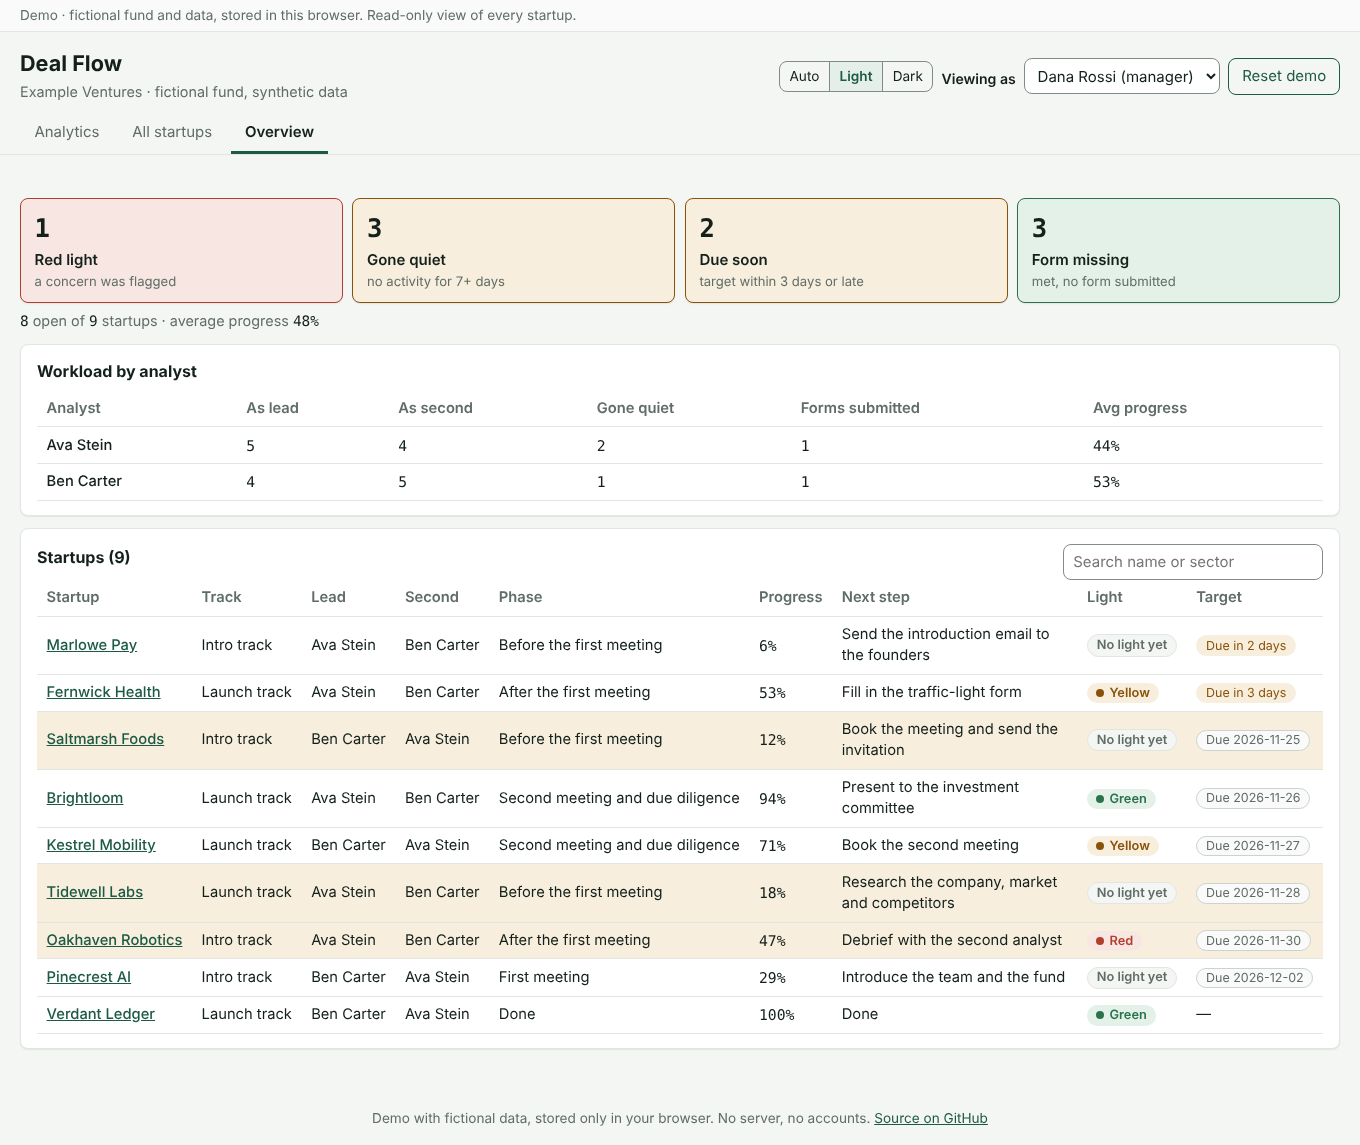
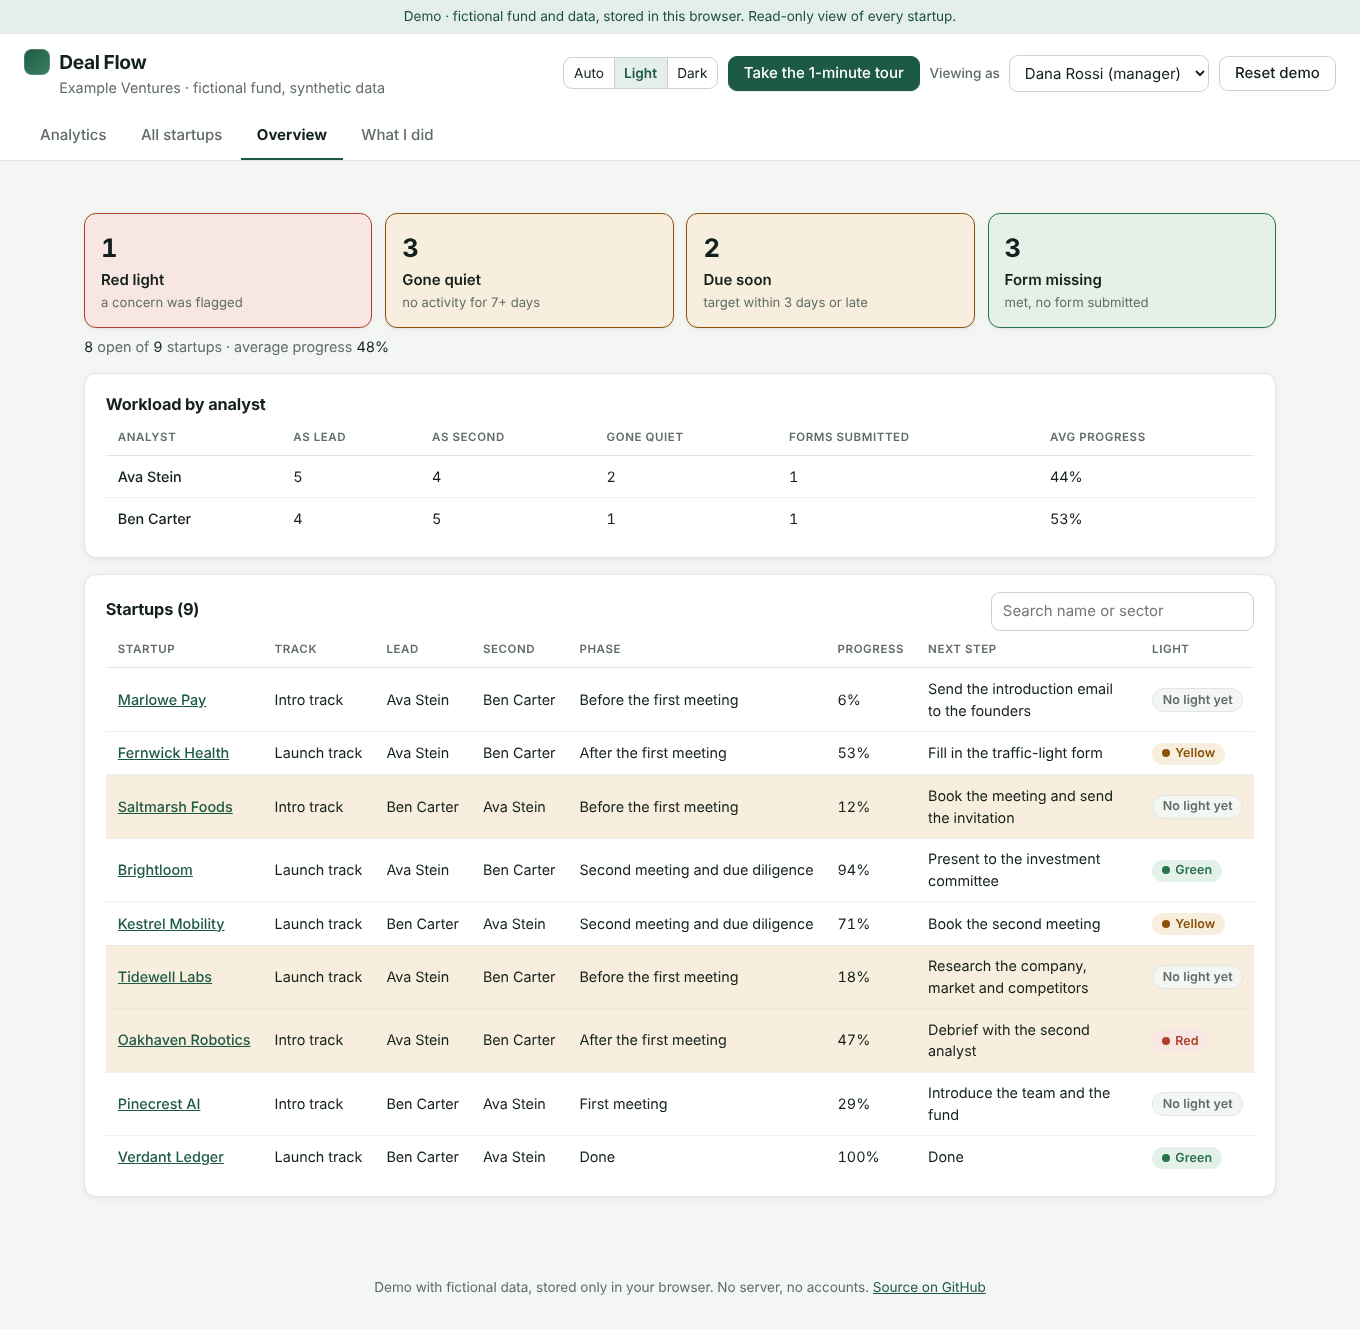
style: calmer visual polish (type, spacing, cards, tabs, tour) and fix stray null node
Claude-Session: https://claude.ai/code/session_01N9arR7BoFCMTo9ZA3dDA75

diff --git a/css/style.css b/css/style.css
@@ -7,10 +7,10 @@
   --yellow: #8a5208; --yellow-bg: #f8eedd;
   --red: #b13f2c; --red-bg: #f8e6e2;
   --info-bg: #e6ecf7;
-  --radius: 8px;
-  --shadow: 0 1px 2px rgba(19,32,27,.05), 0 1px 1px rgba(19,32,27,.03);
+  --radius: 12px; --radius-sm: 9px;
+  --shadow: 0 1px 2px rgba(19,32,27,.04), 0 2px 8px rgba(19,32,27,.04);
   --shadow-pop: 0 12px 32px rgba(19,32,27,.12), 0 2px 6px rgba(19,32,27,.05);
-  --num: "IBM Plex Mono", ui-monospace, Menlo, monospace;
+  --num: inherit; /* numbers use the text face with tabular figures, not a monospace */
 }
 @media (prefers-color-scheme: dark) {
   :root:not([data-theme="light"]) {
@@ -33,7 +33,7 @@
   --shadow: 0 1px 2px rgba(0,0,0,.4); --shadow-pop: 0 16px 40px rgba(0,0,0,.55); color-scheme: dark;
 }
 * { box-sizing: border-box; }
-body { margin: 0; background: var(--bg); color: var(--ink); font: 15px/1.45 "Heebo", "Segoe UI", system-ui, -apple-system, Arial, sans-serif; }
+body { margin: 0; background: var(--bg); color: var(--ink); font: 15px/1.5 Inter, "Segoe UI", system-ui, -apple-system, "Helvetica Neue", Arial, sans-serif; -webkit-font-smoothing: antialiased; }
 h1 { font-size: 1.35rem; margin: 0; }
 h2 { font-size: 1rem; margin: 0 0 .5rem; }
 h3 { font-size: .95rem; margin: 1rem 0 .25rem; }
@@ -240,3 +240,111 @@ section.card:hover { border-color: var(--line); }
 .about .two .panel { margin: .75rem 0; }
 .about ul, .about ol { margin: .3rem 0; padding-left: 1.2rem; }
 .about li { margin: .25rem 0; }
+
+/* ---- Visual polish layer ------------------------------------------------------------------
+   Same structure, calmer finish: softer surfaces, one rhythm of spacing, clearer hierarchy. */
+:root { --ring: color-mix(in srgb, var(--brand) 28%, transparent); --line-soft: color-mix(in srgb, var(--line) 60%, transparent); }
+body { letter-spacing: -0.003em; }
+h1 { font-size: 1.2rem; font-weight: 700; letter-spacing: -0.02em; display: flex; align-items: center; gap: .6rem; }
+h1::before { content: ""; width: 1.6rem; height: 1.6rem; border-radius: 8px; background: linear-gradient(135deg, var(--brand), color-mix(in srgb, var(--brand) 55%, #5fb38b)); box-shadow: inset 0 0 0 1px rgb(255 255 255 / .18); flex: none; }
+h2 { font-size: 1.02rem; font-weight: 650; letter-spacing: -0.01em; margin-bottom: .35rem; }
+.sub, .note, .empty { line-height: 1.45; }
+.notice { text-align: center; padding: .4rem 1rem; background: var(--brand-soft); color: color-mix(in srgb, var(--brand) 80%, var(--ink)); border-bottom: 1px solid var(--line-soft); }
+.top { background: var(--surface); padding: .85rem 1.5rem; }
+.top .sub { margin: .1rem 0 0 2.2rem; }
+.tabs { background: var(--surface); padding: 0 1.5rem; gap: .15rem; position: sticky; top: 0; z-index: 4; }
+.tab { padding: .7rem 1rem; font-weight: 500; border-bottom-width: 2px; transition: color .15s, border-color .15s; }
+.tab:hover { color: var(--ink); }
+.tab.on { font-weight: 650; }
+main { padding: 1rem 1.5rem 2.5rem; max-width: 1240px; margin: 0 auto; }
+.status { margin: .5rem 1.5rem 0; }
+select, input, textarea { border-color: var(--line-strong); border-radius: var(--radius-sm); padding: .45rem .65rem; transition: border-color .15s, box-shadow .15s; }
+select:hover, input:hover, textarea:hover { border-color: var(--control); }
+:focus-visible { outline: 2px solid var(--brand); outline-offset: 2px; }
+select:focus-visible, input:focus-visible, textarea:focus-visible { outline: none; border-color: var(--brand); box-shadow: 0 0 0 3px var(--ring); }
+.btn { border-radius: var(--radius-sm); padding: .48rem .95rem; font-weight: 550; line-height: 1.2; transition: background .15s, border-color .15s, box-shadow .15s, transform .05s; box-shadow: 0 1px 1px rgba(0,0,0,.08); }
+.btn:hover { background: color-mix(in srgb, var(--brand) 88%, #000); }
+.btn:active { transform: translateY(1px); }
+.btn.ghost { border-color: var(--line-strong); color: var(--ink); box-shadow: none; }
+.btn.ghost:hover { background: var(--brand-soft); border-color: color-mix(in srgb, var(--brand) 40%, var(--line-strong)); color: var(--brand); }
+.btn.sm { padding: .3rem .65rem; font-size: .85rem; }
+.seg { border-color: var(--line-strong); border-radius: var(--radius-sm); }
+.seg button + button { border-left-color: var(--line-strong); }
+.who { gap: .6rem; }
+.who > label { margin: 0; font-weight: 500; color: var(--muted); font-size: .85rem; }
+
+.panel { padding: 1.1rem 1.3rem; margin: 1rem 0; border-radius: var(--radius); border-color: var(--line); }
+.panel > h2:first-child { margin-bottom: .15rem; }
+.panel .note { margin: 0 0 .6rem; }
+.lead { color: var(--muted); margin: .25rem 0; }
+
+.kpis { gap: .8rem; margin: .75rem 0 1rem; }
+.kpi { border-radius: var(--radius); padding: .9rem 1rem; gap: .1rem; position: relative; overflow: hidden; }
+.kpi::before { content: ""; position: absolute; inset: 0 auto 0 0; width: 3px; background: var(--brand); opacity: .75; }
+.kpi-l { order: -1; font-size: .74rem; font-weight: 600; color: var(--muted); text-transform: uppercase; letter-spacing: .05em; }
+.kpi-v { font-size: 1.85rem; font-weight: 650; letter-spacing: -0.02em; line-height: 1.15; font-variant-numeric: tabular-nums; }
+.kpi-h { font-size: .8rem; line-height: 1.35; }
+.num, td.num, .tile .v { font-family: inherit; font-variant-numeric: tabular-nums; }
+
+.tiles { gap: .8rem; }
+.tile { border-radius: var(--radius); padding: .9rem 1rem; transition: box-shadow .15s, transform .15s, border-color .15s; }
+.tile:hover { box-shadow: 0 4px 14px rgba(19,32,27,.09); transform: translateY(-1px); }
+.tile .v { font-weight: 650; letter-spacing: -0.02em; }
+.tile[aria-pressed="true"] { box-shadow: 0 0 0 2px var(--brand); }
+
+table { font-size: .9rem; }
+th, td { padding: .6rem .75rem; border-bottom-color: var(--line-soft); }
+thead th { font-size: .72rem; text-transform: uppercase; letter-spacing: .05em; color: var(--muted); border-bottom: 1px solid var(--line); background: transparent; }
+tbody tr:last-child th, tbody tr:last-child td { border-bottom: 0; }
+tbody tr { transition: background .1s; }
+tbody tr:hover { background: var(--surface-2); }
+
+.board { gap: .9rem; }
+.col { background: color-mix(in srgb, var(--surface) 40%, var(--bg)); border-radius: var(--radius); padding: .75rem; box-shadow: none; }
+.col h2 { font-size: .74rem; text-transform: uppercase; letter-spacing: .05em; color: var(--muted); display: flex; align-items: center; justify-content: space-between; margin-bottom: .6rem; }
+.count { background: var(--surface); border: 1px solid var(--line); border-radius: 999px; padding: 0 .5rem; font-size: .75rem; color: var(--muted); margin: 0; }
+.card { border-radius: var(--radius-sm); padding: .7rem .8rem; gap: .25rem; transition: box-shadow .15s, border-color .15s, transform .15s; }
+.card:hover { border-color: color-mix(in srgb, var(--brand) 55%, var(--line)); box-shadow: 0 4px 14px rgba(19,32,27,.09); transform: translateY(-1px); }
+.card strong { font-weight: 650; }
+.card.focus { background: linear-gradient(135deg, var(--brand-soft), var(--surface)); border-color: color-mix(in srgb, var(--brand) 30%, var(--line)); transform: none; cursor: default; }
+.bar { height: .5rem; background: var(--line); border-radius: 999px; }
+.bar-fill { border-radius: 999px; background: linear-gradient(90deg, color-mix(in srgb, var(--brand) 80%, #5fb38b), var(--brand)); }
+.bar-row { gap: .8rem; margin: .45rem 0; }
+.bar-row > span:first-child { color: var(--ink); font-size: .9rem; }
+
+.pill { padding: .1rem .6rem; font-size: .78rem; letter-spacing: .01em; }
+.chip { transition: background .15s, border-color .15s; }
+.chip:hover { border-color: var(--brand); }
+
+.chart { margin-top: .6rem; }
+.legend { gap: 1.1rem; margin: .1rem 0 .2rem; font-size: .82rem; }
+.swatch { width: .65rem; height: .65rem; border-radius: 3px; }
+
+.errors { background: var(--red-bg); border-radius: var(--radius-sm); padding: .6rem .9rem .6rem 2rem; }
+.warns { background: var(--yellow-bg); border-radius: var(--radius-sm); padding: .6rem .9rem .6rem 2rem; }
+.panel h3 { font-size: .8rem; text-transform: uppercase; letter-spacing: .05em; color: var(--muted); margin: 1rem 0 .4rem; }
+
+.tour { border-radius: 14px; padding: 1.1rem 1.2rem 1rem; border-color: color-mix(in srgb, var(--brand) 35%, var(--line-strong)); box-shadow: 0 18px 48px rgba(19,32,27,.2), 0 2px 8px rgba(19,32,27,.08); border-top: 3px solid var(--brand); animation: rise .22s ease-out; }
+.tour .cap { font-weight: 600; letter-spacing: .06em; text-transform: uppercase; font-size: .7rem; color: var(--brand); margin: 0; }
+.tour h2 { font-size: 1.1rem; margin: .25rem 0 .4rem; }
+.tour p { color: var(--muted); font-size: .92rem; line-height: 1.5; }
+.tour .row.end { margin-top: .9rem; }
+@keyframes rise { from { opacity: 0; transform: translateY(8px); } to { opacity: 1; transform: none; } }
+
+.about .panel { padding: 1.3rem 1.5rem; }
+.about p, .about li { line-height: 1.6; }
+.about .two .panel h3 { margin-top: 0; }
+.about .two .panel:first-child { border-top: 3px solid var(--brand); }
+.about .two .panel:last-child { border-top: 3px solid var(--control); }
+.about a, .panel a, .lead a { color: var(--brand); text-underline-offset: 2px; }
+
+dialog { box-shadow: -18px 0 48px rgba(19,32,27,.18); }
+.foot { padding: 1.5rem 1rem 2rem; }
+@media (max-width: 720px) {
+  .top, .tabs { padding-left: 1rem; padding-right: 1rem; }
+  main { padding: .75rem 1rem 2rem; }
+  .panel { padding: .95rem 1rem; }
+  .tabs { overflow-x: auto; }
+  .tab { white-space: nowrap; }
+}
+@media (prefers-reduced-motion: reduce) { * { transition: none !important; animation: none !important; } }

diff --git a/js/charts.js b/js/charts.js
@@ -9,7 +9,7 @@ function el(tag, attrs = {}, ...kids) {
   for (const kid of kids.flat()) if (kid != null) node.append(kid);
   return node;
 }
-const text = (x, y, s, attrs = {}) => el('text', { x, y, fill: COLOR.text, 'font-size': 11, ...attrs }, document.createTextNode(String(s)));
+const text = (x, y, s, attrs = {}) => el('text', { x, y, fill: COLOR.text, 'font-size': 12, ...attrs }, document.createTextNode(String(s)));
 
 /** Hidden table with the same numbers, for screen readers. */
 export function dataTable(caption, headers, rows) {
@@ -42,7 +42,7 @@ export function rangeChart({ rows, label, unit = 'days', width = 960 }) {
   const svg = frame(width, height, label);
   for (let i = 0; i <= 4; i += 1) {
     const v = (max / 4) * i;
-    svg.append(el('line', { x1: x(v), x2: x(v), y1: m.t, y2: height - m.b, stroke: COLOR.grid }), text(x(v), height - 8, `${Math.round(v)}`, { 'text-anchor': 'middle' }));
+    svg.append(el('line', { x1: x(v), x2: x(v), y1: m.t, y2: height - m.b, stroke: COLOR.grid, 'stroke-dasharray': '2 4' }), text(x(v), height - 8, `${Math.round(v)}`, { 'text-anchor': 'middle' }));
   }
   svg.append(text(m.l - 14, height - 8, unit, { 'text-anchor': 'end' }));
   rows.forEach((r, i) => {
@@ -51,7 +51,7 @@ export function rangeChart({ rows, label, unit = 'days', width = 960 }) {
     if (r.n === 0) return;
     svg.append(
       el('line', { x1: x(r.min), x2: x(r.max), y1: cy, y2: cy, stroke: COLOR.none, 'stroke-width': 1.5 }),
-      el('rect', { x: x(r.p25), y: cy - 9, width: Math.max(2, x(r.p75) - x(r.p25)), height: 18, rx: 4, fill: COLOR.brand, opacity: 0.85 }),
+      el('rect', { x: x(r.p25), y: cy - 9, width: Math.max(2, x(r.p75) - x(r.p25)), height: 18, rx: 6, fill: COLOR.brand, opacity: 0.88 }),
       el('line', { x1: x(r.median), x2: x(r.median), y1: cy - 12, y2: cy + 12, stroke: 'var(--ink)', 'stroke-width': 2.5 }),
       text(x(r.max) + 6, cy + 4, `${r.median}`, { fill: 'var(--ink)' }));
   });
@@ -73,7 +73,7 @@ export function stackedBars({ rows, keys, label, width = 960 }) {
     for (const p of r.parts) {
       if (!p.value) continue;
       const color = keys.find((k) => k.key === p.key)?.color;
-      svg.append(el('rect', { x: x0, y: cy + 3, width: p.value * scale, height: rowH - 8, fill: COLOR[color] ?? color, rx: 2 }));
+      svg.append(el('rect', { x: x0, y: cy + 3, width: p.value * scale, height: rowH - 8, fill: COLOR[color] ?? color, rx: 3 }));
       x0 += p.value * scale;
     }
     svg.append(text(x0 + 6, cy + 16, r.parts.reduce((n, p) => n + p.value, 0), { fill: 'var(--ink)' }));
@@ -93,7 +93,7 @@ export function funnelChart({ stages, label, width = 960 }) {
     const w = ((width - m.l - m.r) * s.reached) / top;
     svg.append(
       text(m.l - 8, cy + 20, s.label, { 'text-anchor': 'end', fill: 'var(--ink)', 'font-size': 12 }),
-      el('rect', { x: m.l, y: cy + 4, width: Math.max(2, w), height: rowH - 10, rx: 3, fill: COLOR.brand, opacity: 1 - i * 0.12 }),
+      el('rect', { x: m.l, y: cy + 4, width: Math.max(2, w), height: rowH - 10, rx: 6, fill: COLOR.brand, opacity: 1 - i * 0.12 }),
       text(m.l + Math.max(2, w) + 8, cy + 20, s.conversion == null ? `${s.reached}` : `${s.reached} · ${s.conversion}%`, { fill: 'var(--ink)' }));
   });
   return svg;

diff --git a/js/app.js b/js/app.js
@@ -130,9 +130,9 @@ function tabs() {
 }
 
 function render() {
-  root.replaceChildren(notice(), header(), tabs(),
+  root.replaceChildren(...[notice(), header(), tabs(),
     h('p', { class: 'status', role: 'status', 'aria-live': 'polite' }, state.status),
-    state.view === 'deal' ? dealPage() : state.view === 'overview' ? overviewView() : state.view === 'analytics' ? analyticsView() : state.view === 'about' ? aboutView() : dealsView(), tourPanel());
+    state.view === 'deal' ? dealPage() : state.view === 'overview' ? overviewView() : state.view === 'analytics' ? analyticsView() : state.view === 'about' ? aboutView() : dealsView(), tourPanel()].filter(Boolean));
 }
 
 // ---- My deals ----------------------------------------------------------------------------------
